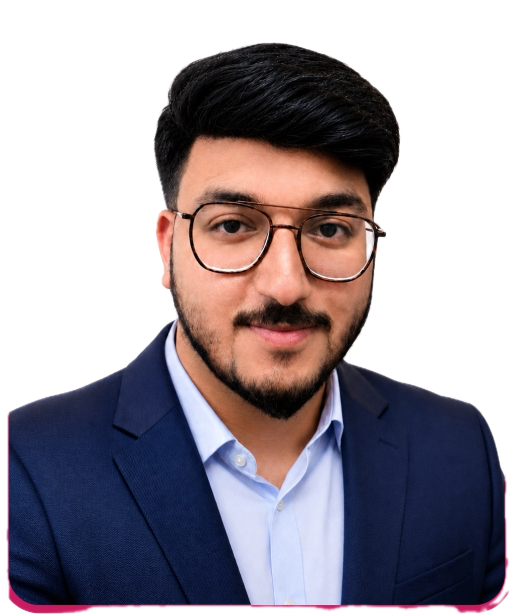
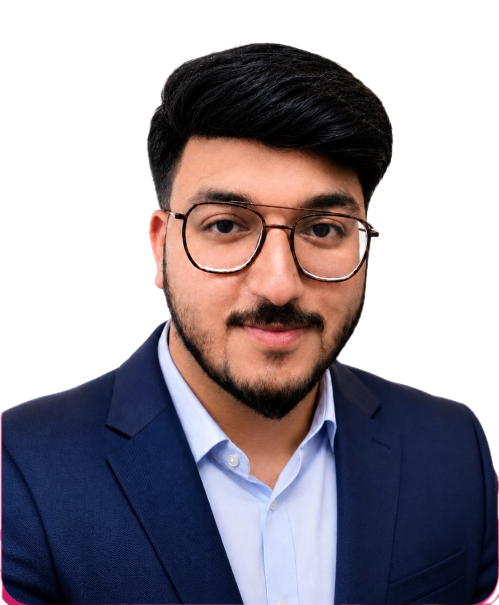
style: update heading sizes for improved responsiveness across components

diff --git a/src/components/faculty/FacultyCarousel.tsx b/src/components/faculty/FacultyCarousel.tsx
@@ -133,18 +133,18 @@ export default function FacultyCarousel() {
                     <div className="flex h-full flex-col gap-5 sm:flex-row">
                       {/* Image */}
 
-                      <div className="relative h-[230px] w-full overflow-hidden rounded-2xl border-[3px] border-[#A13F99] sm:h-auto sm:w-[170px] md:w-[180px] lg:w-[190px] xl:w-[200px] shrink-0">
+                      <div className="relative h-[240px] w-full shrink-0 overflow-hidden rounded-2xl border-[3px] border-[#A13F99] sm:w-[170px] md:w-[180px] lg:w-[190px] xl:w-[200px]">
                         <Image
                           src={item.image}
                           alt={item.name}
                           fill
-                          className="object-cover"
+                          className="object-contain object-bottom sm:object-cover sm:object-bottom scale-[1.03]"
                         />
                       </div>
 
                       {/* Content */}
 
-                      <div className="flex flex-1 flex-col justify-center">
+                      <div className="flex flex-1 flex-col justify-center md:mt-6">
                         <h3 className="text-xl font-bold uppercase leading-tight text-[#A13F99] lg:text-2xl">
                           {item.name}
                         </h3>

diff --git a/src/components/course-fee/CourseFeeSection.tsx b/src/components/course-fee/CourseFeeSection.tsx
@@ -12,7 +12,7 @@ export default function CourseFeeSection() {
       <div className="bg-[#9F4396] py-20 text-center text-white">
         <Container>
           <div className="mx-auto max-w-7xl px-6">
-            <h2 className="text-5xl font-bold">Our Courses</h2>
+            <h2 className="text-3xl font-bold sm:text-4xl md:text-5xl">Our Courses</h2>
 
             <p className="mt-6 text-[16px] text-white/90">
               Choose the perfect course for your Jee Main / Advanced, NEET and
@@ -32,7 +32,7 @@ export default function CourseFeeSection() {
               Invest In Your Future
             </p>
 
-            <h2 className="mt-5 text-5xl font-bold text-[#273147]">
+            <h2 className="mt-5 text-3xl font-bold text-[#273147] sm:text-4xl md:text-5xl">
               Course Fee Structure
             </h2>
 

diff --git a/src/components/hero/Hero.tsx b/src/components/hero/Hero.tsx
@@ -31,7 +31,7 @@ export default function Hero() {
 
             {/* Heading */}
             <div className="mt-8 max-w-5xl text-center">
-              <h1 className="text-[52px] font-extrabold leading-[1.08] tracking-[-0.03em] text-[#131B38] lg:text-[74px]">
+              <h1 className="text-[36px] font-extrabold leading-[1.08] tracking-[-0.03em] text-[#131B38] sm:text-[52px] lg:text-[74px]">
                 Where <span className="text-[#A53BA5]">Ambition</span>
                 <br />
                 <span className="relative inline-flex items-center justify-center px-4 py-2 mr-3">

diff --git a/src/components/transform/TransformSection.tsx b/src/components/transform/TransformSection.tsx
@@ -14,7 +14,7 @@ export default function TransformSection() {
           <div className="flex items-center justify-between gap-10">
             {/* Left */}
             <div className="max-w-[610px]">
-              <h2 className="text-[48px] font-bold  text-[#2E2E2E]">
+              <h2 className="text-3xl font-bold text-[#2E2E2E] sm:text-4xl md:text-[48px]">
                 Transform your Life
                 <br />
                 with Radhey Coaching

diff --git a/src/components/goals/GoalSection.tsx b/src/components/goals/GoalSection.tsx
@@ -10,7 +10,7 @@ export default function GoalSection() {
         {/* Header */}
         <div className="flex flex-col gap-8 lg:flex-row lg:items-end lg:justify-between">
           <div>
-            <h2 className="text-5xl font-bold text-[#1F2937]">
+            <h2 className="text-3xl font-bold text-[#1F2937] sm:text-4xl md:text-5xl">
               Select Your Goal
             </h2>
 

diff --git a/src/components/pedagogy/PedagogySection.tsx b/src/components/pedagogy/PedagogySection.tsx
@@ -8,7 +8,7 @@ export default function PedagogySection() {
       <Container>
         {/* Heading */}
         <div className="mx-auto text-center">
-          <h2 className="text-5xl font-bold text-[#1F2937]">
+          <h2 className="text-3xl font-bold text-[#1F2937] sm:text-4xl md:text-5xl">
             Precision-Driven Pedagogy
           </h2>
 

diff --git a/src/components/course-fee/FeePolicySection.tsx b/src/components/course-fee/FeePolicySection.tsx
@@ -41,7 +41,7 @@ export default function FeePolicySection() {
                 </span>
               </div>
 
-              <h2 className="mt-8 text-[30px] font-semibold text-[#273147]">
+              <h2 className="mt-8 text-2xl font-semibold text-[#273147] sm:text-[30px]">
                 Fee Composition & Policy
               </h2>
 
